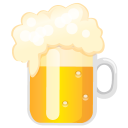
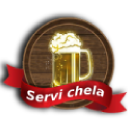
Creacion de logotipo

diff --git a/index.html b/index.html
@@ -18,6 +18,7 @@
 	<link rel="stylesheet" href="css/font-awesome.min.css">
 	<link rel="stylesheet" href="css/bootstrap.css">
 	<link rel="stylesheet" href="css/main.css">
+	<link rel="manifest" href="manifest.json">
 </head>
 
 <body>
